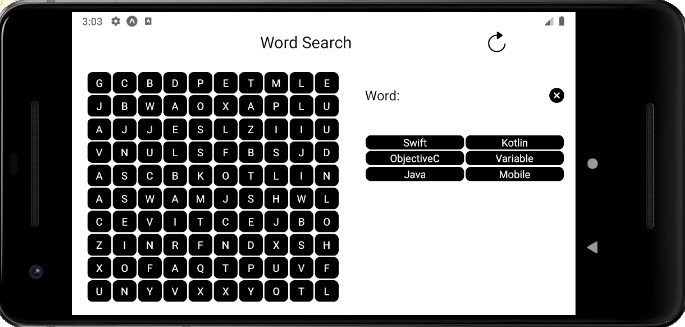
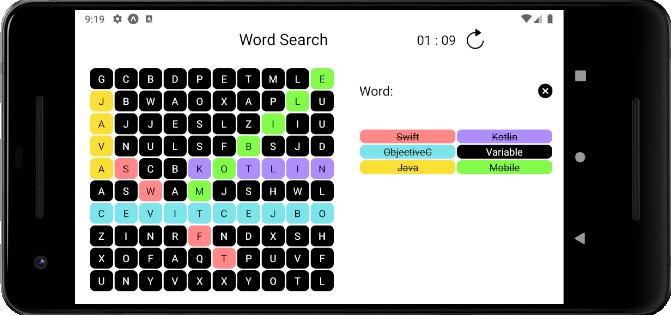
Timer layout fixed

diff --git a/components/Grid.js b/components/Grid.js
@@ -76,9 +76,9 @@ const Grid = props => {
         };
 
         Dimensions.addEventListener('change', updateLayout)
-        return () => {
-            Dimensions.removeEventListener('change', updateLayout)
-        };
+        // return () => {
+        //     Dimensions.removeEventListener('change', updateLayout)
+        // };
     })
 
 
@@ -88,7 +88,6 @@ const Grid = props => {
         setColorString(new Map(colorString.set(string.toLowerCase(), colors[colorIndex])))
         if (correct.length === correctAnswers.length) {
             setConstTime(`${mins} : ${secs}`)
-            console.log(constTime)
         }
         var colorMap = {};
         for (var i = 0; i < selectedLetters.length; i++) {
@@ -133,23 +132,25 @@ const Grid = props => {
                     <View style={{ flex: 1, flexDirection: 'column' }}>
                         <View style={styles.header}>
                             <Header title="Word Search" />
-                            <View style={styles.iconHeader}>
-                                <Text>{`${mins} : ${secs}`}</Text>
-                                <Ionicons
-                                    name="ios-refresh"
-                                    size={32}
-                                    color="black"
-                                    onPress={() => {
-                                        updatedString("");
-                                        setSelectedLetters([]);
-                                        setCorrectedLetters([])
-                                        setCorrectAnswers([])
-                                        setColorLetters(new Map());
-                                        colorIndex = 0;
-                                        setRemainingSecs(0);
-                                        setIsActive(false);
-                                    }}
-                                />
+                            <View style={styles.secondHeader}>
+                                <Text style={styles.timer}>{`${mins} : ${secs}`}</Text>
+                                <View style={styles.iconHeader}>
+                                    <Ionicons
+                                        name="ios-refresh"
+                                        size={32}
+                                        color="black"
+                                        onPress={() => {
+                                            updatedString("");
+                                            setSelectedLetters([]);
+                                            setCorrectedLetters([])
+                                            setCorrectAnswers([])
+                                            setColorLetters(new Map());
+                                            colorIndex = 0;
+                                            setRemainingSecs(0);
+                                            setIsActive(false);
+                                        }}
+                                    />
+                                </View>
                             </View>
                         </View>
                         <View style={{ flex: 1, flexDirection: 'row' }}>
@@ -164,7 +165,6 @@ const Grid = props => {
                                             colors={colors}
                                             colorLetters={colorLetters}
                                             startWordString={item => {
-                                                console.log(item)
                                                 if (selectedLetters.includes(item)) {
                                                     updatedString(string.replace(item, ""))
                                                 } else {
@@ -256,25 +256,25 @@ const Grid = props => {
                         <View style={{ flex: 1, flexDirection: 'column' }}>
                             <View style={styles.header}>
                                 <Header title="Word Search" />
-                                {/* <View>
-                                    </View> */}
-                                <Text>{`${mins} : ${secs}`}</Text>
-                                <View style={styles.iconHeader}>
-                                    <Ionicons
-                                        name="ios-refresh"
-                                        size={32}
-                                        color="black"
-                                        onPress={() => {
-                                            updatedString("");
-                                            setSelectedLetters([]);
-                                            setCorrectedLetters([])
-                                            setCorrectAnswers([]);
-                                            setColorLetters(new Map());
-                                            colorIndex = 0;
-                                            setRemainingSecs(0);
-                                            setIsActive(false);
-                                        }}
-                                    />
+                                <View style={styles.secondHeader}>
+                                    <Text style={styles.timer}>{`${mins} : ${secs}`}</Text>
+                                    <View style={styles.iconHeader}>
+                                        <Ionicons
+                                            name="ios-refresh"
+                                            size={32}
+                                            color="black"
+                                            onPress={() => {
+                                                updatedString("");
+                                                setSelectedLetters([]);
+                                                setCorrectedLetters([])
+                                                setCorrectAnswers([]);
+                                                setColorLetters(new Map());
+                                                colorIndex = 0;
+                                                setRemainingSecs(0);
+                                                setIsActive(false);
+                                            }}
+                                        />
+                                    </View>
                                 </View>
                             </View>
                             <View style={styles.container, { height: height / 1.56 }}>
@@ -385,7 +385,7 @@ const styles = StyleSheet.create({
     },
     container: {
         height: Dimensions.get('window').height / 1.56,
-        // backgroundColor: 'white',
+        backgroundColor: 'white',
         borderRadius: 7
     },
     landscapeContainer: {
@@ -410,20 +410,34 @@ const styles = StyleSheet.create({
     header: {
         flexDirection: 'row',
         height: 80,
-        width: '80%',
+        width: '65%',
         paddingTop: 36,
         alignItems: 'center',
+        // justifyContent: '',
         paddingBottom: 36,
-        paddingLeft: 20,
-        marginHorizontal: 30
+        paddingLeft: 65,
+        marginHorizontal: 30,
     },
     iconHeader: {
         marginRight: 10,
         flexDirection: 'row',
-        // padding: 10
+        paddingHorizontal: 15
     },
     gameOver: {
         opacity: 0.6
+    },
+    secondHeader: {
+        flexDirection: 'row',
+        marginRight: 20,
+        // backgroundColor: 'red',
+        width: 200,
+        paddingHorizontal: 10
+    },
+    timer: {
+        alignContent: 'center',
+        justifyContent: 'center',
+        marginTop: 5,
+        fontSize: 18
     }
 });
 

diff --git a/data/data.js b/data/data.js
@@ -12,12 +12,12 @@ export const data = [
 ];
 
 export const correct = [
-    // 'Swift',
-    // 'Kotlin',
-    // 'ObjectiveC',
-    // 'Variable',
+    'Swift',
+    'Kotlin',
+    'ObjectiveC',
+    'Variable',
     'Java',
-    // 'Mobile',
+    'Mobile',
 ]
 
 export const colors = [

diff --git a/README.md b/README.md
@@ -26,7 +26,7 @@ Type these commands into your command line to reproduce:
 - [ ] Randomize where the words are placed
 - [X] Make a slick UI with smooth animations
 - [X] Make it look good in portrait and landscape
-- [X] Feel free to add any additional features you can think of
+- [X] Additional features: Timer
 - [ ] Allow the user to find the words by swiping over the words
 
 
@@ -36,10 +36,10 @@ Type these commands into your command line to reproduce:
 The first screenshot shows the screen before you start the game.
 
 <p align="left">
-  <img alt="" src="screenshots/Annotation 2020-05-08 234102.jpg" width="360" /><br>
+  <img alt="" src="screenshots/portrait2.jpg" width="360" /><br>
 </p>
 <p align="left">
-  <img alt="" src="screenshots/landscape1.jpg" width="1000" /><br>
+  <img alt="" src="screenshots/landscape2.jpg" width="1000" /><br>
 </p>
 
 
@@ -48,10 +48,10 @@ If word is not found, the user can press the X button to revert the incorrect hi
 The active score counter is in the form of the items in the list which are highlighted in the respective color and scratched off.
 
 <p align="left">
-  <img alt="" src="screenshots/Annotation 2020-05-08 232830.jpg" width="360" /><br>
+  <img alt="" src="screenshots/portrait1.jpg" width="360" /><br>
 </p>
 <p align="left">
-  <img alt="" src="screenshots/landscape2.jpg" width="1000" /><br>
+  <img alt="" src="screenshots/landscape1.jpg" width="1000" /><br>
 </p>
 
 
@@ -61,3 +61,9 @@ The third screenshot shows the screen where the user has found all the words. (F
 <p align="left">
   <img alt="" src="screenshots/Annotation 2020-05-09 003215.jpg" width="360" /><br>
 </p>
+
+## Additional Feature
+
+### Timer
+
+User can see how long it takes for them to beat the game
